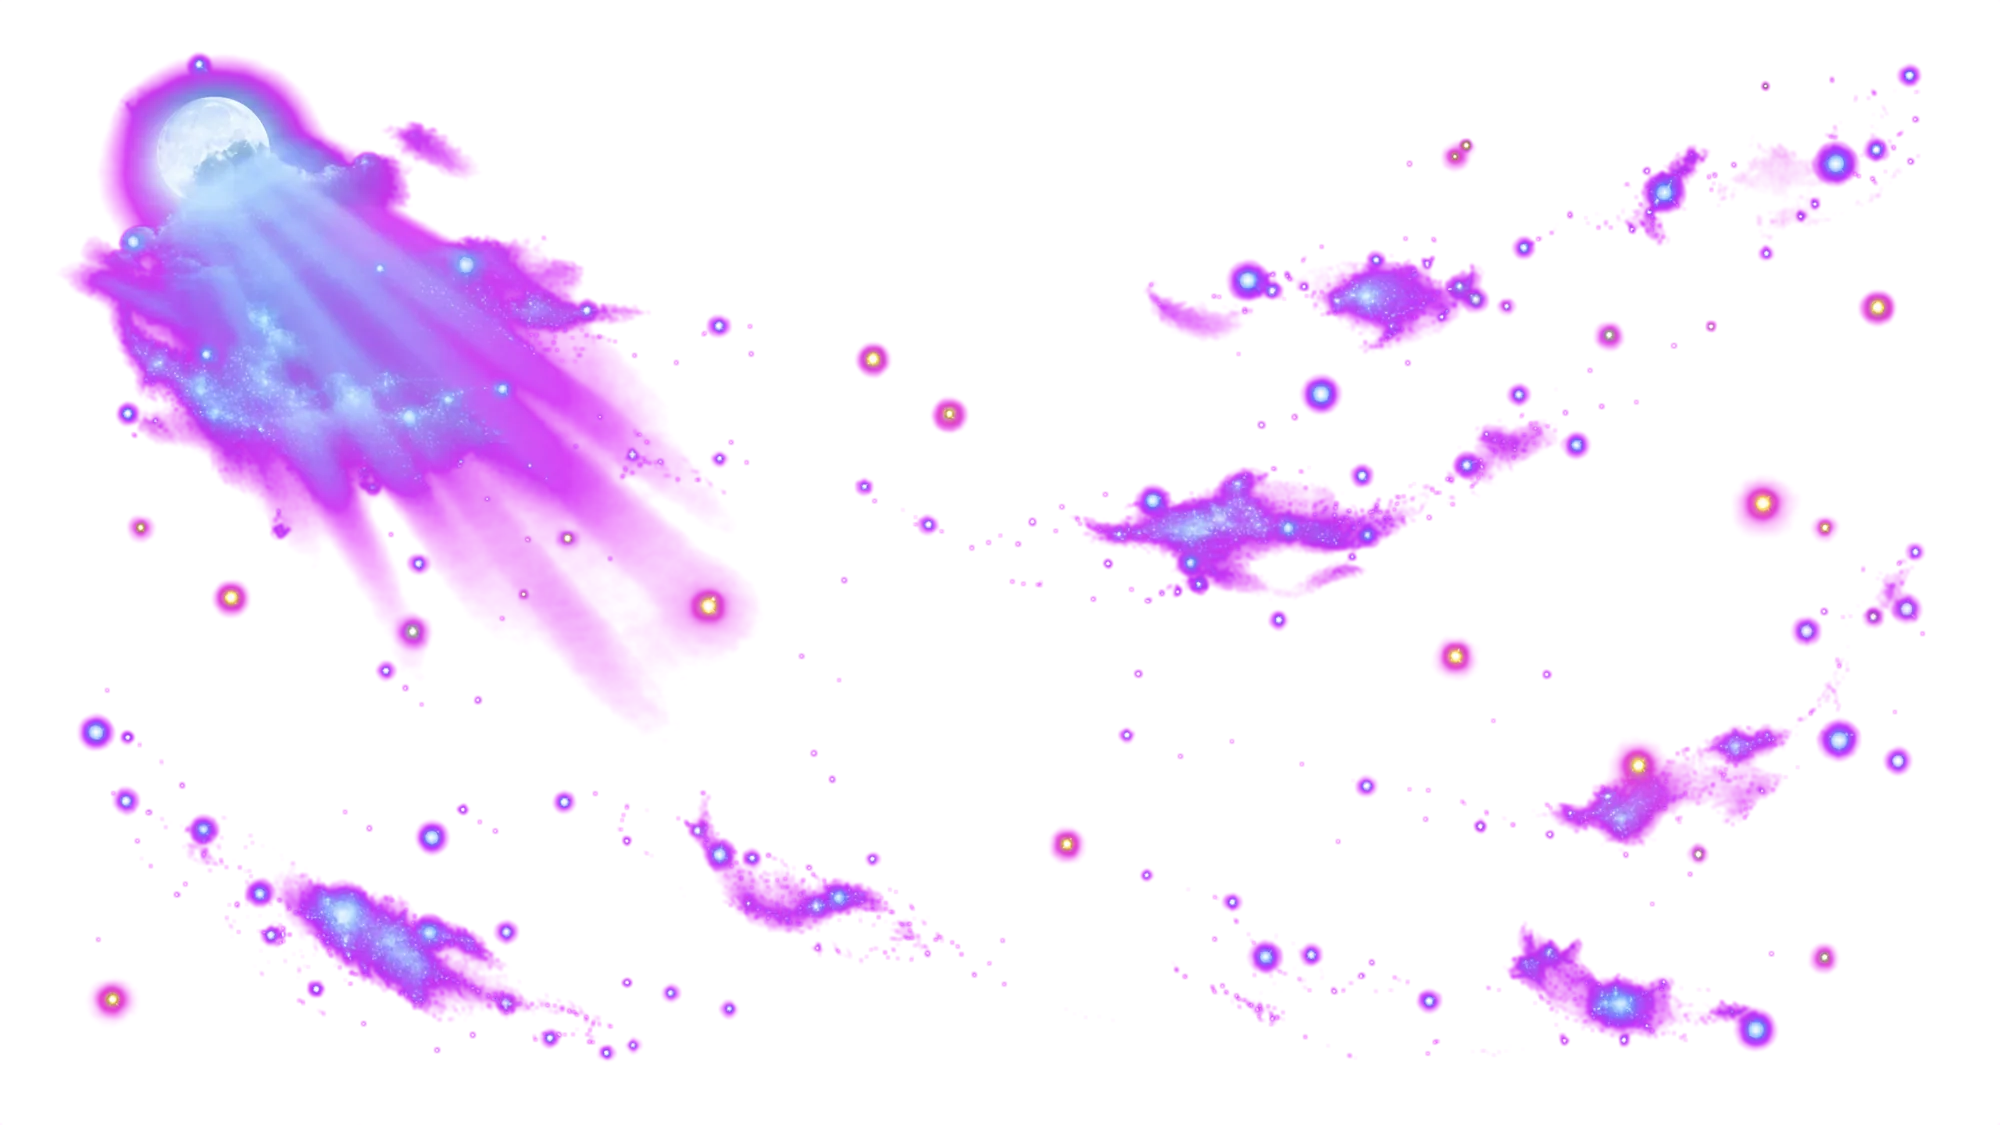
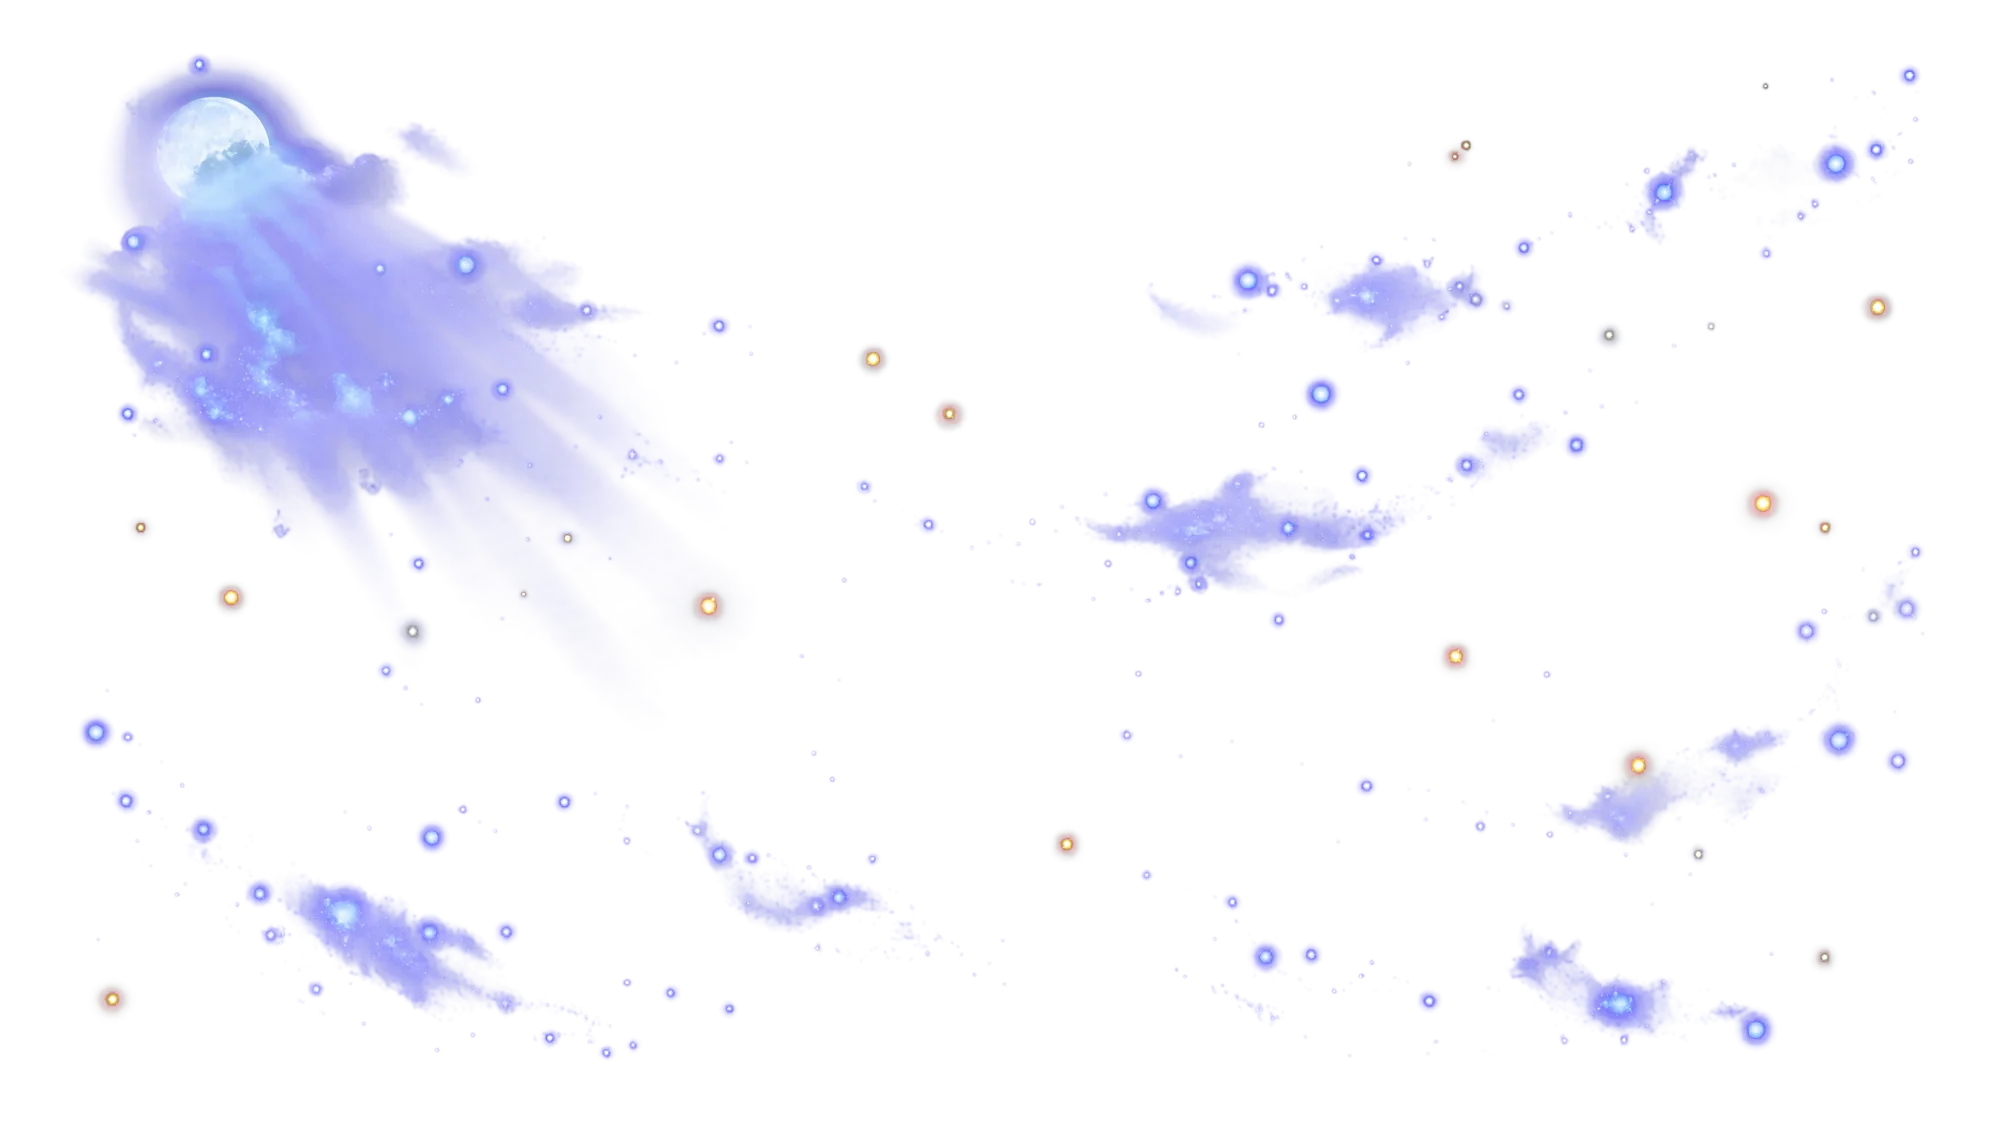
Remove de vez o vazamento magenta: neutraliza o viés de cor + tira o blend-mode indevido
A correção anterior só limpava a borda totalmente transparente; o viés
magenta na verdade atravessava todo o gradiente de transparência dessas
camadas (sobra do processo de matte/chroma-key do fundo original), então
ainda aparecia. Agora neutraliza o viés diretamente: sempre que o canal
verde fica bem abaixo de vermelho e azul ao mesmo tempo (a assinatura do
magenta), reequilibra pra cor neutra — sem mexer nos tons legítimos
(dourado, marrom da casca, etc., onde essa assinatura não aparece).

Também tira o mix-blend-mode: screen da camada de efeitos — como ela já
tem canal alfa de verdade, blend screen não era necessário e só
amplificava qualquer resíduo de cor; composição normal já basta.

diff --git a/src/components/treeview/SceneLayers.jsx b/src/components/treeview/SceneLayers.jsx
@@ -91,7 +91,7 @@ const SceneLayers = forwardRef(function SceneLayers({ period }, ref) {
       ))}
 
       <div ref={setRef(EFFECTS_LAYER.key)} className="parallax-layer">
-        <CrossfadeImage srcs={periodSrcMap(EFFECTS_LAYER.key)} activeKey={period} className="effects-pulse" blend />
+        <CrossfadeImage srcs={periodSrcMap(EFFECTS_LAYER.key)} activeKey={period} className="effects-pulse" />
       </div>
 
       <div ref={setRef(FRONT_LEAVES.key)} className="parallax-layer">
